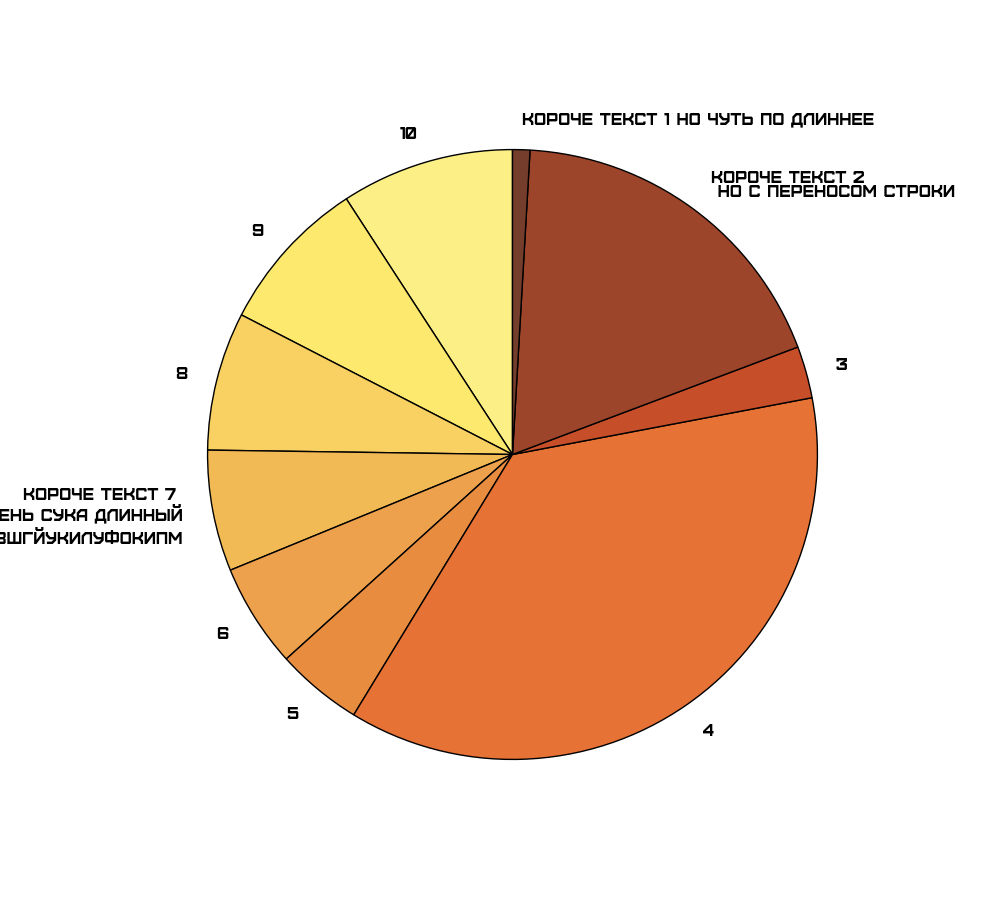
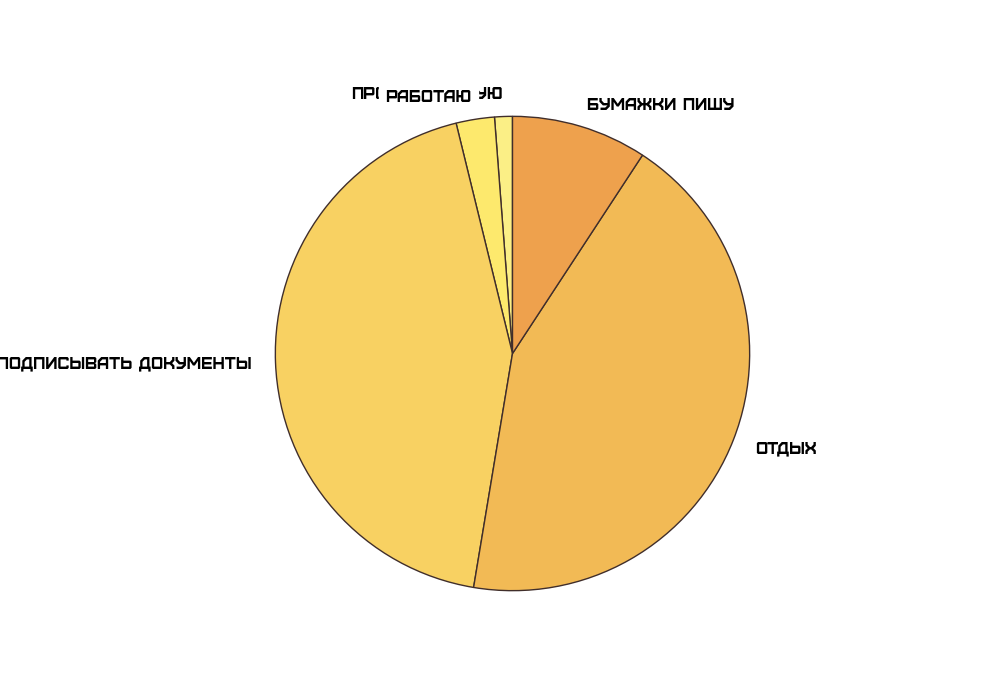
Класс параметр для pie chart готов. Готов шаблон стилей

diff --git a/styles.py b/styles.py
@@ -10,6 +10,9 @@ Color = str
 
 class ColorSchema(NamedTuple):
     colors: list[Color]
+    comment: str
+
+    # text_color: Color = "black"
 
     @property
     def schema_size(self):
@@ -19,21 +22,32 @@ class ColorSchema(NamedTuple):
 class WedgesProperties(NamedTuple):
     lw: int | None = None  # Ширина линий
     ls: str | None = None  # Стиль линий
-    edgecolor: Color | None = None  # Цвет линий
+    edgecolor: Color | None = "black"  # Цвет линий
     capstyle: str | None = None  # Внешний вид линий butt - квадрат, round округлый
-    fill: bool | None = None  # Заливать?
+    fill: bool | None = True  # Заливать?
     hatch: str | None = None  # Штриховка Как применить ее для отдельного сектора?
     label: str | None = None  # Будет выводиться в легенде. Где она?
     sketch_params: int | None = None  # Параметр "кривости" рисунка
 
+    def dict(self):
+        return self._asdict()
+
+    def __repr__(self):
+        return str(self.dict())
+
 
 class TextProperties(NamedTuple):
     color: Color | None = None
-    backgroundcolor: Color | None = None
-    font: str | None = None
+    backgroundcolor: Color | None = "0001"
     fontfamily: str | None = None
     fontproperties: fm.FontProperties | None = None
     fontsize: str | float | None = None
+
+    def dict(self):
+        return self._asdict()
+
+    def __repr__(self):
+        return str(self.dict())
 
 
 class PieProperties(NamedTuple):
@@ -50,54 +64,55 @@ class PieProperties(NamedTuple):
     wedgeprops: WedgesProperties | None = None  # Внешний вид секторов
     textprops: TextProperties | None = None  # Внешний вид текста
 
+    def dict(self):
+        d = {**self._asdict()}
+        d.update({'wedgeprops': self.wedgeprops.dict()})
+        d.update({'textprops': self.textprops.dict()})
+        return d
 
-class PiePropertiesSimple:
-    def __init__(self,
-                 colors: list[Color] | None = None,
-                 labeldistance: float | None = None,  # Расстояние от центра окружности до подписи. В радиусах
-                 autopct: str | None = None,  # Формат подписи размера доли
-                 pctdistance: float | None = None,
-                 # Расстояние от центра окружности до подписи размера доли. В радиусах
-                 shadow: bool | None = None,  # Тень от фигуры
-                 startangle: int | None = None,  # Угол поворота
-                 radius: float | None = None,
-                 center: tuple[int, int] | None = None,
-                 # Координаты центра диаграммы, относительно фрейма (координатной сетки)
-                 frame: bool | None = None,  # Отображение рамки с координатами
-                 rotatelabels: bool | None = None,  # Поворот подписей
-                 wedgeprops: WedgesProperties | None = None,  # Внешний вид секторов
-                 textprops: TextProperties | None = None  # Внешний вид текста
-                 ):
-        self.colors = colors
-        self.labeldistance = labeldistance
-        self.autopct = autopct
-        self.pctdistance = pctdistance
-        self.shadow = shadow
-        self.startangle = startangle
-        self.radius = radius
-        self.center = center
-        self.frame = frame
-        self.rotatelabels = rotatelabels
-        self.wedgeprops = wedgeprops
-        self.textprops = textprops
+    def __repr__(self):
+        return str(self.dict())
 
 
-colors1 = ["#fbef86",
-           "#fde96d",
-           "#f8d162",
-           "#f2ba55",
-           "#eea14d",
-           "#e88c3f",
-           "#e77235",
-           "#c64e29",
-           "#9d452a",
-           "#753d2b"
-           ]
+yellow_orange_crayola = ColorSchema(colors=["#fbef86",
+                                            "#fde96d",
+                                            "#f8d162",
+                                            "#f2ba55",
+                                            "#eea14d",
+                                            "#e88c3f",
+                                            "#e77235",
+                                            "#c64e29",
+                                            "#9d452a",
+                                            "#753d2b"
+                                            ],
+                                    comment="""color gradient from 
+                                            https://medium.com/%D1%86%D0%B2%D0%B5%D1%82/%D0%BF%D0%BE%D0%B4%D0%B1%D0%
+                                            BE%D1%80-%D0%BF%D1%80%D0%B0%D0%B2%D0%B8%D0%BB%D1%8C%D0%BD%D1%8B%D1%85-%D1%
+                                            86%D0%B2%D0%B5%D1%82%D0%BE%D0%B2%D1%8B%D1%85-%D0%BF%D0%B0%D0%BB%D0%B8%D1%
+                                            82%D1%80-%D0%B4%D0%BB%D1%8F-%D0%B2%D0%B8%D0%B7%D1%83%D0%B0%D0%BB%D0%B8%D0%
+                                            B7%D0%B0%D1%86%D0%B8%D0%B8-%D0%B4%D0%B0%D0%BD%D0%BD%D1%8B%D1%85
+                                            -323735a4ceb2"""
+                                    )
 
-yellow_orange_crayola = ColorSchema(colors=colors1)
+wedgeprops1 = WedgesProperties(
+    lw=1,
+    ls='-',
+    edgecolor="#402e2b",
+    capstyle="round",
+    fill=True,
+    hatch="",
+    label="123",
+    sketch_params=0
+)
 
-pie_property1 = PieProperties(
-    colors=yellow_orange_crayola.colors,
+textprops1 = TextProperties(
+    color="black",
+    fontproperties=FONT_FURORE,
+    fontsize="large",
+    backgroundcolor="0001"
+)
+
+yellow_orange_crayola_pie = PieProperties(
     labeldistance=1.1,
     pctdistance=0.8,
     shadow=False,
@@ -106,85 +121,29 @@ pie_property1 = PieProperties(
     center=(0, 0),
     frame=False,
     rotatelabels=False,
-    wedgeprops=WedgesProperties(
-        lw=1,
-        ls='--',
-        edgecolor='k',
-        capstyle='round'
-    ),
-    textprops=TextProperties(
-        color="blask",
-        fontproperties=FONT_FURORE,
-        fontsize="large"
-    )
-)
-
-pie_property2 = PiePropertiesSimple(
+    wedgeprops=wedgeprops1,
+    textprops=textprops1,
     colors=yellow_orange_crayola.colors,
-    labeldistance=1.1,
-    pctdistance=0.8,
-    shadow=False,
-    startangle=90,
-    radius=1.1,
-    center=(0, 0),
-    frame=False,
-    rotatelabels=False,
-    wedgeprops=WedgesProperties(
-        lw=1,
-        ls='--',
-        edgecolor='k',
-        capstyle='round'
-    ),
-    textprops=TextProperties(
-        color="blask",
-        fontproperties=FONT_FURORE,
-        fontsize="large"
-    )
 )
-
-
-def draw_plot(data, labels, filename: str):
-    fig = plt.figure(figsize=(10, 9))
-    ax1 = plt.pie(data,
-                  labels=labels,
-                  labeldistance=1.1,  # Расстояние от центра окружности до подписи. В радиусах
-                  # autopct='%1.1f%%',  # Формат подписи размера доли
-                  pctdistance=0.8,  # Расстояние от центра окружности до подписи размера доли. В радиусах
-                  shadow=False,
-                  startangle=90,
-                  colors=colors1,
-                  radius=1.1,
-
-                  wedgeprops={'lw': 1,  # Ширина линий
-                              'ls': '-',  # Стиль линий
-                              'edgecolor': "#402e2b",  # Цвет линий
-                              "capstyle": "round",  # Внешний вид линий butt - квадрат, round округлый
-                              'fill': True,  # Заливать?
-                              'hatch': "",  # Штриховка Как применить ее для отдельного сектора?
-                              'label': "123",  # Будет выводиться в легенде. Где она?
-                              'sketch_params': 0  # Параметр "кривости" рисунка
-                              },  # Внешний вид секторов
-                  textprops={'color': "black",
-                             # 'backgroundcolor': "white",
-                             # 'font': "Gora Free",
-                             # 'fontfamily': 'Gora Free',
-                             'fontproperties': FONT_FURORE,
-                             'fontsize': 'large'  # Или размер float
-                             },  # Внешний вид текста
-                  center=(0, 0),  # Координаты центра диаграммы, относительно фрейма (координатной сетки)
-                  frame=False,  # Отображение рамки с координатами
-                  rotatelabels=False  # Поворот подписей
-                  )  # line 240
-    plt.savefig(filename)
-    fig.clear()
-    plt.close(fig)
 
 
 if __name__ == "__main__":
-    #print(pie_property2.__dict__)
 
+    def draw_plot2(data, labels, filename: str):
+        fig = plt.figure(figsize=(10, 9))
+        ax1 = plt.pie(data,
+                      labels=labels,
+                      **yellow_orange_crayola_pie.dict(),
+                      )  # line 240
+        plt.savefig(filename)
+        fig.clear()
+        plt.close(fig)
+
+
+    print(yellow_orange_crayola_pie.dict())
     filename = f"testplot1.png"
     test_data = [1, 20, 3, 40, 5, 6, 7, 8, 9, 10][::-1]
-    test_labels = ["Короче текст 1 но чуть по длиннее ", "Короче текст 2\n но с переносом строки", 3, 4, 5, 6, "Короче текст 7 \nочень сука длинный\n фыждвлаофолыиазшгйукилуфокипм", 8, 9, 10][::-1]
-    draw_plot(test_data, test_labels, filename)
+    test_labels = ["Короче текст 1 но чуть по длиннее ", "Короче текст 2\n но с переносом строки", 3, 4, 5, 6,
+                   "Короче текст 7 \nочень сука длинный\n фыждвлаофолыиазшгйукилуфокипм", 8, 9, 10][::-1]
+    draw_plot2(test_data, test_labels, filename)
     os.system(f"xdg-open {filename}")

diff --git a/statistic.py b/statistic.py
@@ -5,6 +5,7 @@ import matplotlib.pyplot as plt
 from typing import NamedTuple
 from aiogram import types
 import os
+from styles import PieProperties, yellow_orange_crayola_pie
 
 
 class TimeDelta(NamedTuple):
@@ -82,25 +83,16 @@ def apply_filters(times_delta: TimeDeltaPerDay) -> TimeDeltaPerDay:
     return times_delta_per_day
 
 
-def draw_plot(time_delta_per_day: TimeDeltaPerDay, filename: str):
+def draw_plot(time_delta_per_day: TimeDeltaPerDay, pie_style: PieProperties, filename: str):
     # TODO: Проверить разные размеры текстов-подписи. Сделать или перенос или ограничение размера
 
     fig = plt.figure(figsize=(10, 7))
-    # color gradient from https://medium.com/%D1%86%D0%B2%D0%B5%D1%82/
-    # %D0%BF%D0%BE%D0%B4%D0%B1%D0%BE%D1%80-%D0%BF%D1%80%D0%B0%D0%B2%D0%B8%D0%BB%D1%
-    # 8C%D0%BD%D1%8B%D1%85-%D1%86%D0%B2%D0%B5%D1%82%D0%BE%D0%B2%D1%8B%D1%85-%D0%BF%
-    # D0%B0%D0%BB%D0%B8%D1%82%D1%80-%D0%B4%D0%BB%D1%8F-%D0%B2%D0%B8%D0%B7%D1%83%D0%
-    # B0%D0%BB%D0%B8%D0%B7%D0%B0%D1%86%D0%B8%D0%B8-%D0%B4%D0%B0%D0%BD%D0%BD%D1%8B%
-    # D1%85-323735a4ceb2
-
-    ax1 = plt.pie(time_delta_per_day.percents, labels=time_delta_per_day.actions_names, autopct='%1.1f%%', shadow=True,
-                  startangle=90, colors=colors2)  # line 240
-    # plt.legend(loc='lower right') #, bbox_to_anchor=(1.0, 1.0))
+    ax1 = plt.pie(time_delta_per_day.percents,
+                  labels=time_delta_per_day.actions_names,
+                  **pie_style.dict())
     plt.savefig(filename)
     fig.clear()
     plt.close(fig)
-    # ax1.savefig(filename)
-    # 'left' is not a valid value for loc; supported values are 'best', 'upper right', 'upper left', 'lower left', 'lower right', 'right', 'center left', 'center right', 'lower center', 'upper center', 'center'
 
 
 def get_today_statistic(user_id: int):
@@ -109,15 +101,16 @@ def get_today_statistic(user_id: int):
         times_delta = accumulate_same_actions(times_delta)
         times_delta = apply_filters(times_delta)
         filename = f"images/{datetime.date.today()}-{user_id}.png"
-        draw_plot(times_delta, filename)
+        draw_plot(times_delta, yellow_orange_crayola_pie, filename)
         return filename
     return None
 
 
 if __name__ == "__main__":
+    # TODO: Проверка вывода перекрывающегося текста. При текущих значениях есть прецидент
     times_delta = get_times_delta_for_date(1115933014)
     times_delta = accumulate_same_actions(times_delta)
     times_delta = apply_filters(times_delta)
     filename = f"testplot.png"
-    draw_plot(times_delta, filename)
+    draw_plot(times_delta, yellow_orange_crayola_pie,  filename)
     os.system("xdg-open testplot.png")
